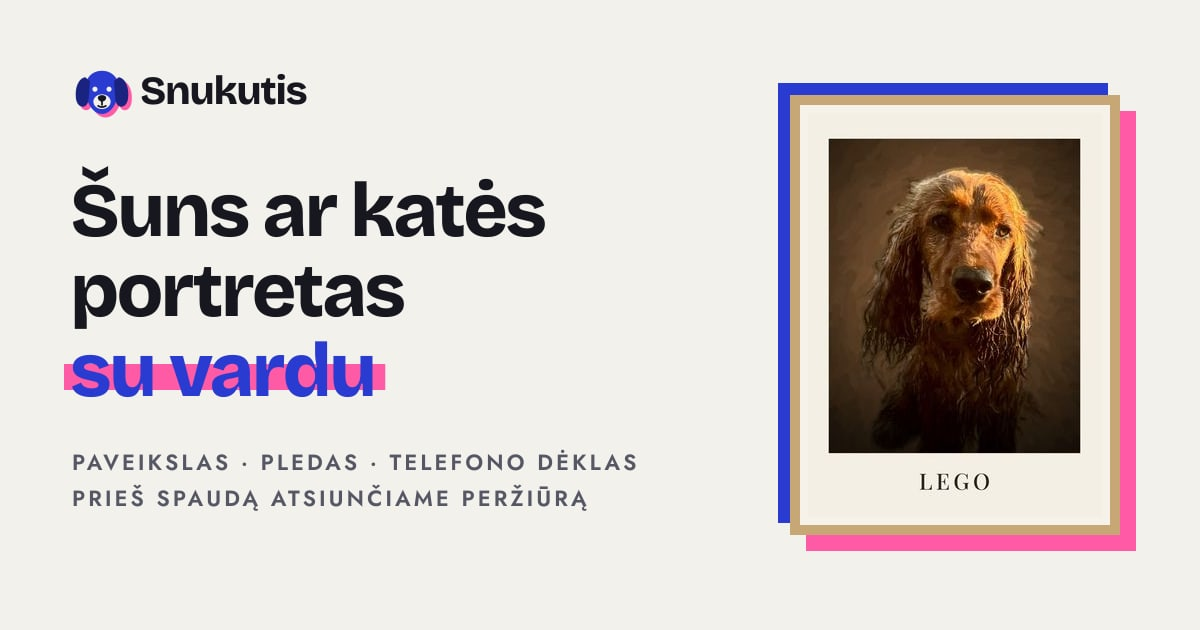
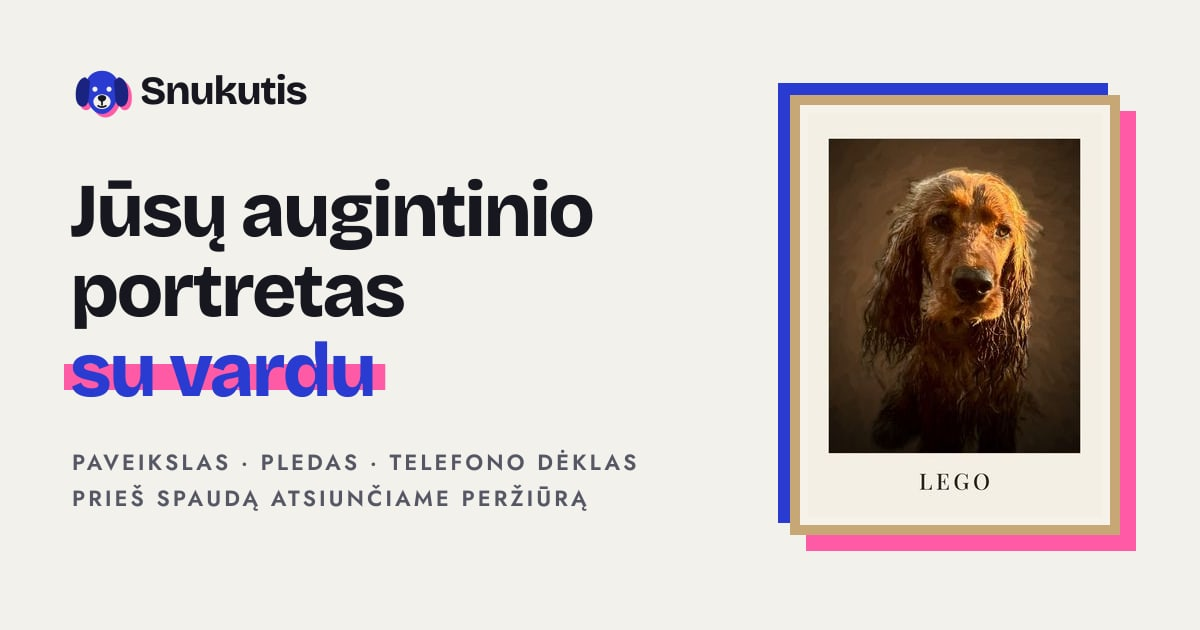
Headline promises what the examples show: 'Jūsų augintinio portretas su vardu'; cats stay in the label
Claude-Session: https://claude.ai/code/session_01UCUSKhpSLerF4seEvYFAdx

Changed region(s): [[0.0617, 0.2714, 0.4933, 0.4222]]

diff --git a/portretai/e2e/kelias.test.js b/portretai/e2e/kelias.test.js
@@ -124,7 +124,7 @@ function watch(page) {
 test('home page: example, price, lead time and order button are on the first screen of a small phone', async () => {
   const page = watch(await customer.newPage());
   await page.goto(site.base + '/', { waitUntil: 'networkidle' });
-  assert.equal(await page.locator('h1').innerText(), 'Jūsų šuns ar katės portretas su vardu');
+  assert.equal(await page.locator('h1').innerText(), 'Jūsų augintinio portretas su vardu');
   // The demo banner exists only on stand-ins; production has no banner, so
   // measure the fold as production visitors see it.
   const banner = await page.locator('.demo-banner').boundingBox();

diff --git a/portretai/app/page.tsx b/portretai/app/page.tsx
@@ -27,9 +27,9 @@ export default async function Home() {
   return (
     <>
       <section className="wrap hero">
-        <p className="label">Augintinių portretai pagal nuotrauką</p>
+        <p className="label">Šuns ar katės portretas pagal vieną nuotrauką</p>
         <h1>
-          Jūsų šuns ar katės portretas <span className="ink-mark">su vardu</span>
+          Jūsų augintinio portretas <span className="ink-mark">su vardu</span>
         </h1>
         <p className="lead">Įrėmintas paveikslas, pledas arba telefono dėklas. Pristatome į paštomatą.</p>
 
